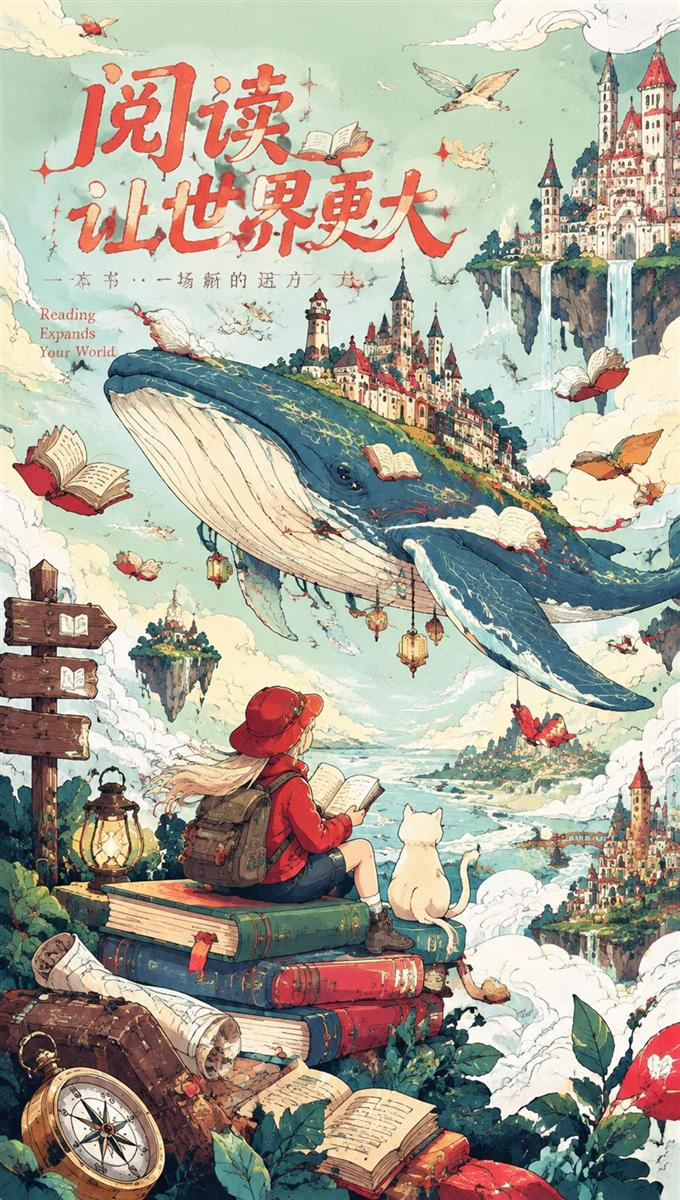
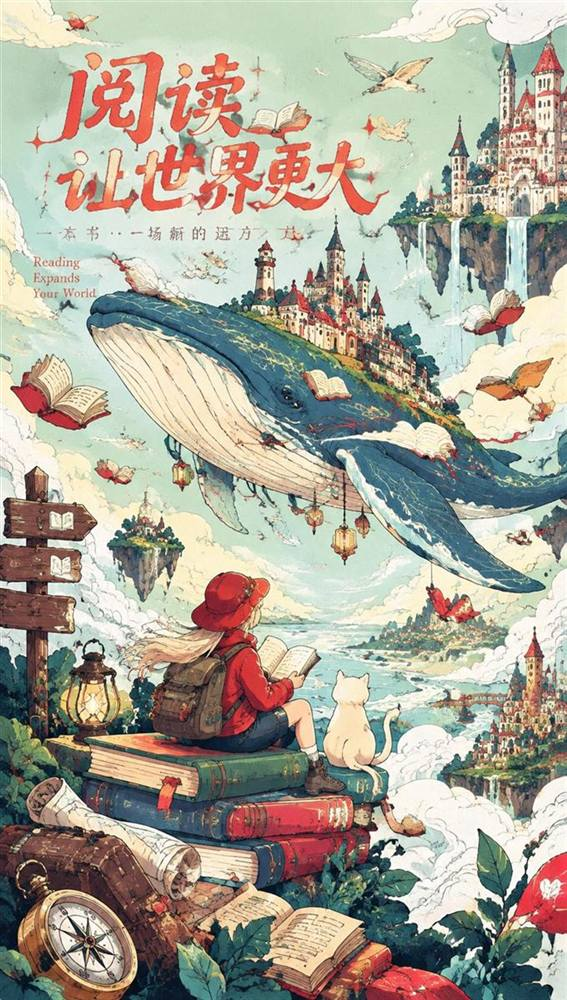
perf: 作品图再压缩(4.5MB->3.1MB)+进入页面即后台预加载全部作品图，滚动即时显示

diff --git a/src/components/Works.jsx b/src/components/Works.jsx
@@ -61,6 +61,31 @@ export default function Works() {
     if (trackRef.current) trackRef.current.scrollLeft = 0
   }, [filter])
 
+  /* 进入页面第一时间后台预加载全部作品图（滚到作品区时已缓存，立即显示） */
+  useEffect(() => {
+    const urls = profile.works
+      .map((w) => w.image)
+      .filter((u) => typeof u === 'string' && u.startsWith('http'))
+    const preload = () => {
+      urls.forEach((u) => {
+        const im = new Image()
+        im.src = u
+      })
+    }
+    let id = null
+    if ('requestIdleCallback' in window) {
+      id = window.requestIdleCallback(preload, { timeout: 1500 })
+    } else {
+      id = setTimeout(preload, 250)
+    }
+    return () => {
+      if (id !== null) {
+        if ('cancelIdleCallback' in window) window.cancelIdleCallback(id)
+        else clearTimeout(id)
+      }
+    }
+  }, [profile.works])
+
   /* Esc 关闭放大 */
   useEffect(() => {
     const onKey = (e) => e.key === 'Escape' && setSelected(null)
